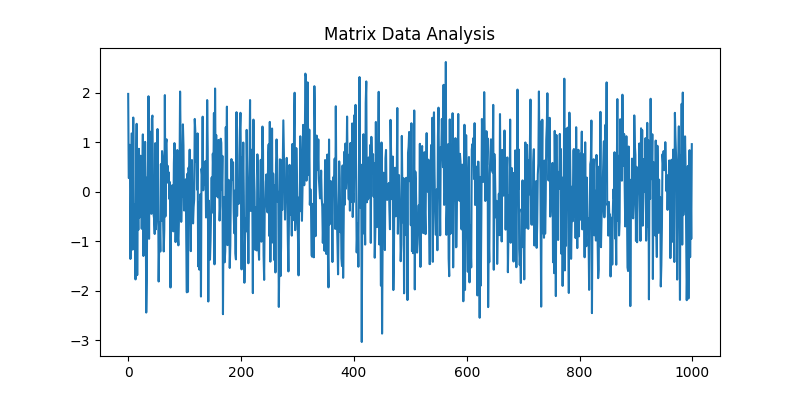
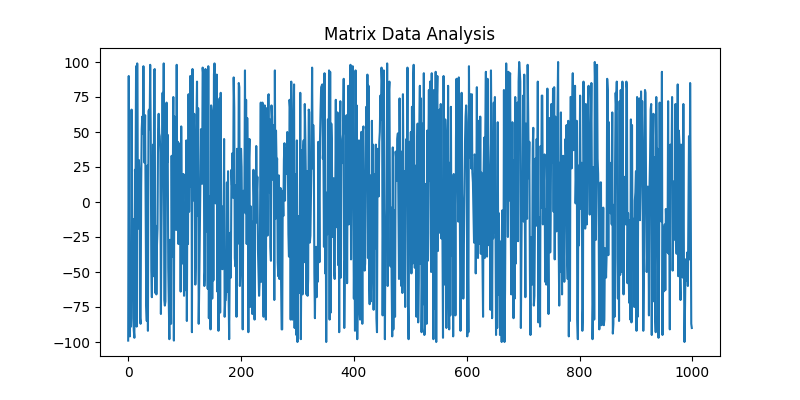
[mod]ex1 api

diff --git a/PM08/ex1/loading.py b/PM08/ex1/loading.py
@@ -45,6 +45,29 @@ def generate_matrix_data(np_module) -> Any:
     """
     return np_module.random.randn(1000)
 
+# ------------------------------------------------------------
+# requestsで外部APIからデータを取得
+# ------------------------------------------------------------
+def fetch_matrix_data(requests_module, np_module) -> Any:
+    """
+    PDF要件：
+    - 外部APIから実データを取得する場合はrequestsを使用
+    - random.org APIから真の乱数を取得してnumpy配列に変換
+    """
+    try:
+        url = "https://www.random.org/integers/?num=1000&min=-100&max=100&col=1&base=10&format=plain"
+        response = requests_module.get(url)
+        response.raise_for_status()
+        lines = response.text.strip().split("\n")
+        data = np_module.array(lines, dtype=float)
+        return data
+    except requests_module.exceptions.HTTPError as e:
+        print(f"[ERROR] API request failed: {e}")
+        return None
+    except requests_module.exceptions.RequestException as e:
+        print(f"[ERROR] Network error: {e}")
+        return None
+
 
 # ------------------------------------------------------------
 # pandas による分析
@@ -76,6 +99,21 @@ def show_dependency_instructions() -> None:
 
 
 # ------------------------------------------------------------
+# データをロードする関数
+# ------------------------------------------------------------
+def load_data(source: str, numpy, requests=None):
+    if source == "numpy":
+        return generate_matrix_data(numpy)
+
+    if source == "api":
+        if requests is None:
+            print("[WARNING] requests missing — falling back to numpy")
+            return generate_matrix_data(numpy)
+        return fetch_matrix_data(requests, numpy)
+
+    raise ValueError(f"Unknown data source: {source}")
+
+# ------------------------------------------------------------
 # メイン処理
 # ------------------------------------------------------------
 def main() -> None:
@@ -93,8 +131,13 @@ def main() -> None:
         show_dependency_instructions()
         return
 
+
     print("Analyzing Matrix data...")
-    data = generate_matrix_data(numpy)
+    source = "api"  # or "API"
+    data = load_data(source, numpy, requests)
+    if data is None:
+        raise ValueError("No data was loaded")
+
     print(f"Processing {len(data)} data points...")
 
     df, summary = analyze_data(pandas, data)
